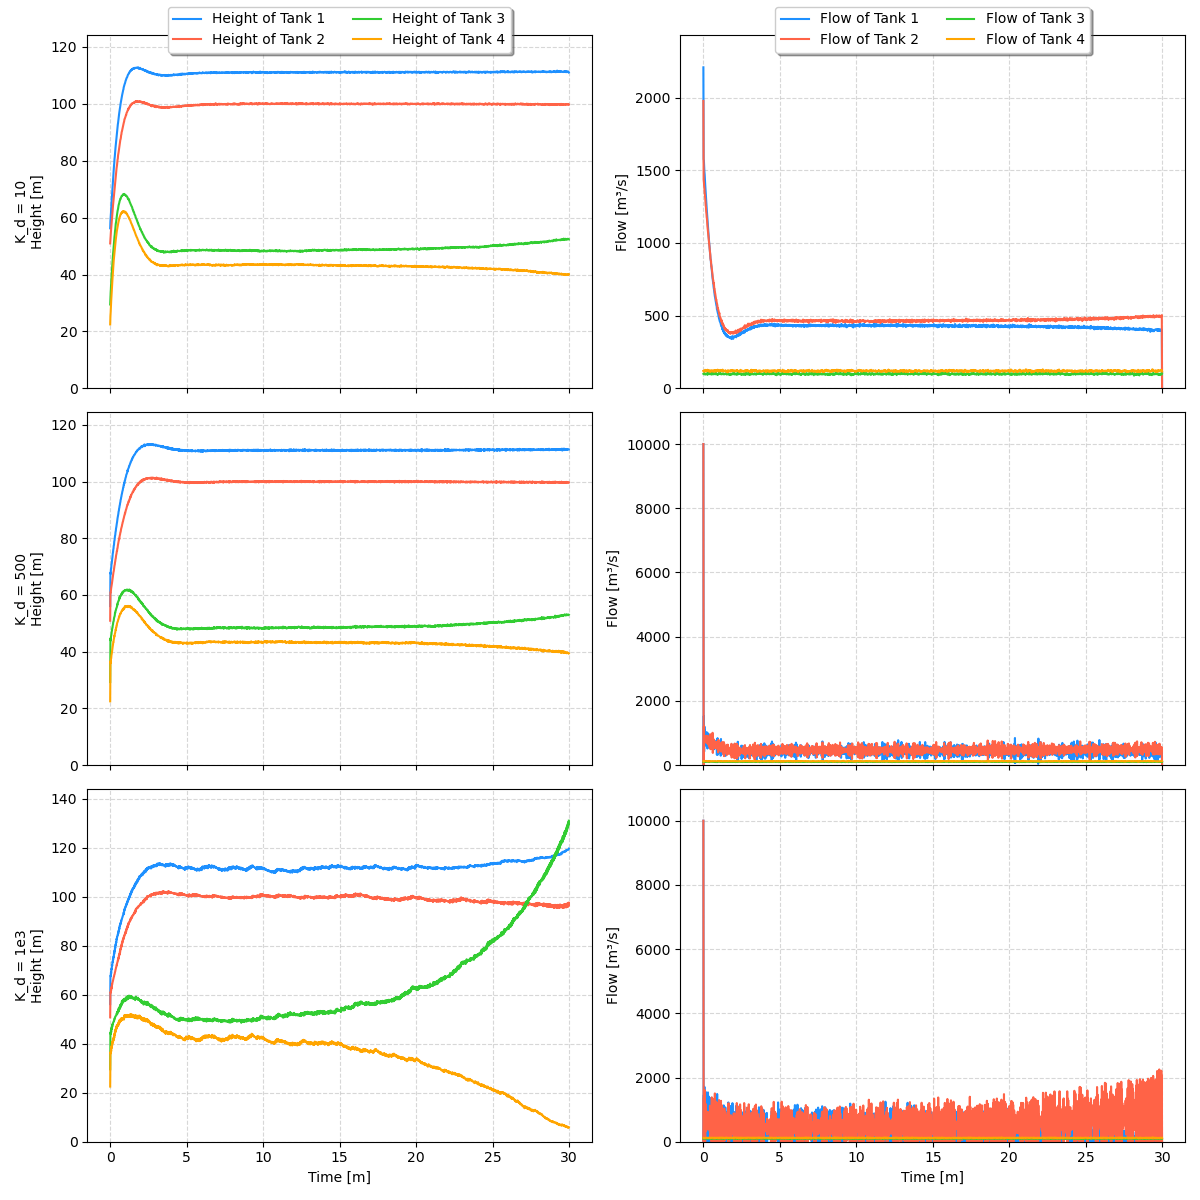
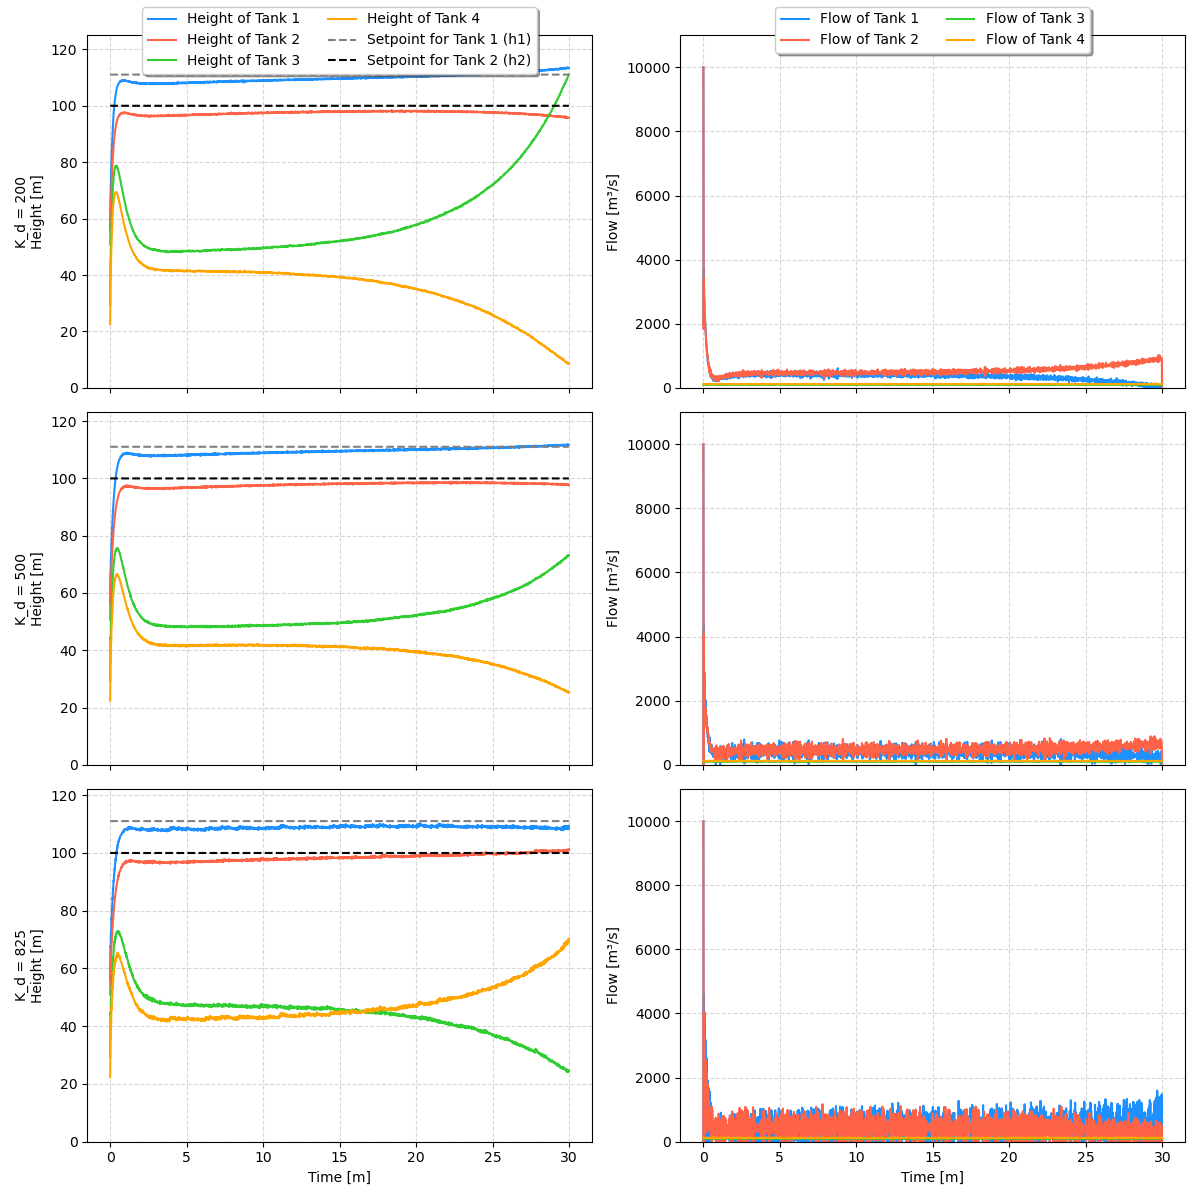
P3 updated

diff --git a/Problem_3.py b/Problem_3.py
@@ -11,10 +11,10 @@ ls = ['-', '-', '-']
 
 t0 = 0
 tf = 20*90
-m10 = 0
-m20 = 0
-m30 = 0
-m40 = 0
+m10 = 10
+m20 = 10
+m30 = 10
+m40 = 10
 F1 = 250
 F2 = 325
 F3 = 100
@@ -35,7 +35,7 @@ Rvv = np.eye(4)*0.01
 umin = 1
 umax = 10000
 
-Model = FourTankSystem(Rvv, Rvv, p, delta_t, F3 = F3, F4 = F4)
+Model = FourTankSystem(Rvv, Rvv, p, delta_t, F3 = lambda t: t*0 + F3, F4 = lambda t: t*0 + F4)
 
 xs = Model.GetSteadyState(x0, u, d)
 print("Steady state (m):", xs)
@@ -66,12 +66,12 @@ if sys.argv[1] == 'test':
     plt.show()
     sys.exit()
 
-setpoint = goal
+setpoint = good_goal
 
-Kp = 30
+Kp = 100
 
 if sys.argv[1] == 'p':
-    controller_p = pid.PIDController(5, 0, 0, setpoint, delta_t, umin, umax)
+    controller_p = pid.PIDController(10, 0, 0, setpoint, delta_t, umin, umax)
 
     t, x, u, d, h = Model.ClosedLoop((t0, tf), state_0, controller_p)
 
@@ -86,9 +86,9 @@ if sys.argv[1] == 'p':
         else:
             axes[0, 1].plot(t/60, d[i-2, :], label=f'Flow of Tank {i+1}', color=colors[i], ls=ls[0])
 
-    axes[0, 0].set_ylim(0, np.max(h)*1.1)
+    axes[0, 0].set_ylim(0, max(np.max(h), np.max(setpoint))*1.1)
     axes[0, 1].set_ylim(0, np.max(u)*1.1)
-    axes[0, 0].set_ylabel('K_p = 5\nHeight [m]')
+    axes[0, 0].set_ylabel('K_p = 10\nHeight [m]')
     axes[0, 1].set_ylabel('Flow [m³/s]')
     axes[0, 0].grid(True, linestyle='--', alpha=0.5)
     axes[0, 1].grid(True, linestyle='--', alpha=0.5)
@@ -105,14 +105,14 @@ if sys.argv[1] == 'p':
         else:
             axes[1, 1].plot(t/60, d[i-2, :], label=f'Flow of Tank {i+1}', color=colors[i], ls=ls[1])
 
-    axes[1, 0].set_ylim(0, np.max(h)*1.1)
+    axes[1, 0].set_ylim(0, max(np.max(h), np.max(setpoint))*1.1)
     axes[1, 1].set_ylim(0, np.max(u)*1.1)
     axes[1, 0].set_ylabel(f'K_p = {Kp}\nHeight [m]')
     axes[1, 1].set_ylabel('Flow [m³/s]')
     axes[1, 0].grid(True, linestyle='--', alpha=0.5)
     axes[1, 1].grid(True, linestyle='--', alpha=0.5)
 
-    controller_p = pid.PIDController(100, 0, 0, setpoint, delta_t, umin, umax)
+    controller_p = pid.PIDController(500, 0, 0, setpoint, delta_t, umin, umax)
 
     t, x, u, d, h = Model.ClosedLoop((t0, tf), state_0, controller_p)
 
@@ -123,7 +123,7 @@ if sys.argv[1] == 'p':
         else:
             axes[2, 1].plot(t/60, d[i-2, :], label=f'Flow of Tank {i+1}', color=colors[i], ls=ls[2])
 
-    axes[2, 0].set_ylim(0, np.max(h)*1.1)
+    axes[2, 0].set_ylim(0, max(np.max(h), np.max(setpoint))*1.1)
     axes[2, 1].set_ylim(0, np.max(u)*1.1)
     axes[2, 0].set_ylabel('K_p = 500\nHeight [m]')
     axes[2, 1].set_ylabel('Flow [m³/s]')
@@ -132,6 +132,10 @@ if sys.argv[1] == 'p':
     axes[2, 0].grid(True, linestyle='--', alpha=0.5)
     axes[2, 1].grid(True, linestyle='--', alpha=0.5)
 
+    for i in range(3):
+        axes[i, 0].plot(t/60, t*0 + setpoint[0], label=f'Setpoint for Tank 1 (h1)', color="gray", ls="--")
+        axes[i, 0].plot(t/60, t*0 + setpoint[1], label=f'Setpoint for Tank 2 (h2)', color="black", ls="--")
+
     axes[0, 0].legend(loc='upper center', bbox_to_anchor=(0.5, 1.10),
             ncol=2, fancybox=True, shadow=True)
     axes[0, 1].legend(loc='upper center', bbox_to_anchor=(0.5, 1.10),
@@ -139,11 +143,11 @@ if sys.argv[1] == 'p':
 
     plt.tight_layout()
     plt.savefig('figures/Problem3/Problem_3_Kp.png')
-    # plt.show()
+    plt.show()
 
-Ki = 0.3
+Ki = 0.1
 if sys.argv[1] == 'pi':
-    controller_pi = pid.PIDController(Kp, 0.1, 0, setpoint, delta_t, umin, umax)
+    controller_pi = pid.PIDController(Kp, 0.01, 0, setpoint, delta_t, umin, umax)
 
     t, x, u, d, h = Model.ClosedLoop((t0, tf), state_0, controller_pi)
 
@@ -157,10 +161,10 @@ if sys.argv[1] == 'pi':
             axes[0, 1].plot(t/60, u[i, :], label=f'Flow of Tank {i+1}', color=colors[i], ls=ls[0])
         else:
             axes[0, 1].plot(t/60, d[i-2, :], label=f'Flow of Tank {i+1}', color=colors[i], ls=ls[0])
-
-    axes[0, 0].set_ylim(0, np.max(h)*1.1)
+    
+    axes[1, 0].set_ylim(0, max(np.max(h), np.max(setpoint))*1.1)
     axes[0, 1].set_ylim(0, np.max(u)*1.1)
-    axes[0, 0].set_ylabel('K_i = 0.1\nHeight [m]')
+    axes[0, 0].set_ylabel('K_i = 0.01\nHeight [m]')
     axes[0, 1].set_ylabel('Flow [m³/s]')
     axes[0, 0].grid(True, linestyle='--', alpha=0.5)
     axes[0, 1].grid(True, linestyle='--', alpha=0.5)
@@ -177,7 +181,7 @@ if sys.argv[1] == 'pi':
         else:
             axes[1, 1].plot(t/60, d[i-2, :], label=f'Flow of Tank {i+1}', color=colors[i], ls=ls[1])
 
-    axes[1, 0].set_ylim(0, np.max(h)*1.1)
+    axes[1, 0].set_ylim(0, max(np.max(h), np.max(setpoint))*1.1)
     axes[1, 1].set_ylim(0, np.max(u)*1.1)
     axes[1, 0].set_ylabel(f'K_i = {Ki}\nHeight [m]')
     axes[1, 1].set_ylabel('Flow [m³/s]')
@@ -195,7 +199,7 @@ if sys.argv[1] == 'pi':
         else:
             axes[2, 1].plot(t/60, d[i-2, :], label=f'Flow of Tank {i+1}', color=colors[i], ls=ls[2])
 
-    axes[2, 0].set_ylim(0, np.max(h)*1.1)
+    axes[2, 0].set_ylim(0, max(np.max(h), np.max(setpoint))*1.1)
     axes[2, 1].set_ylim(0, np.max(u)*1.1)
     axes[2, 0].set_ylabel('K_i = 5\nHeight [m]')
     axes[2, 1].set_ylabel('Flow [m³/s]')
@@ -204,6 +208,10 @@ if sys.argv[1] == 'pi':
     axes[2, 0].grid(True, linestyle='--', alpha=0.5)
     axes[2, 1].grid(True, linestyle='--', alpha=0.5)
 
+    for i in range(3):
+        axes[i, 0].plot(t/60, t*0 + setpoint[0], label=f'Setpoint for Tank 1 (h1)', color="gray", ls="--")
+        axes[i, 0].plot(t/60, t*0 + setpoint[1], label=f'Setpoint for Tank 2 (h2)', color="black", ls="--")
+
     axes[0, 0].legend(loc='upper center', bbox_to_anchor=(0.5, 1.10),
             ncol=2, fancybox=True, shadow=True)
     axes[0, 1].legend(loc='upper center', bbox_to_anchor=(0.5, 1.10),
@@ -211,11 +219,11 @@ if sys.argv[1] == 'pi':
 
     plt.tight_layout()
     plt.savefig('figures/Problem3/Problem_3_Ki.png')
-    # plt.show()
+    plt.show()
 
 Kd = 500
 if sys.argv[1] == 'pid':
-    controller_pid = pid.PIDController(Kp, Ki, 10, setpoint, delta_t, umin, umax)
+    controller_pid = pid.PIDController(Kp, Ki, 200, setpoint, delta_t, umin, umax)
 
     t, x, u, d, h = Model.ClosedLoop((t0, tf), state_0, controller_pid)
 
@@ -230,9 +238,9 @@ if sys.argv[1] == 'pid':
         else:
             axes[0, 1].plot(t/60, d[i-2, :], label=f'Flow of Tank {i+1}', color=colors[i], ls=ls[0])
 
-    axes[0, 0].set_ylim(0, np.max(h)*1.1)
+    axes[0, 0].set_ylim(0, max(np.max(h), np.max(setpoint))*1.1)
     axes[0, 1].set_ylim(0, np.max(u)*1.1)
-    axes[0, 0].set_ylabel('K_d = 10\nHeight [m]')
+    axes[0, 0].set_ylabel('K_d = 200\nHeight [m]')
     axes[0, 1].set_ylabel('Flow [m³/s]')
     axes[0, 0].grid(True, linestyle='--', alpha=0.5)
     axes[0, 1].grid(True, linestyle='--', alpha=0.5)
@@ -249,14 +257,14 @@ if sys.argv[1] == 'pid':
         else:
             axes[1, 1].plot(t/60, d[i-2, :], label=f'Flow of Tank {i+1}', color=colors[i], ls=ls[1])
 
-    axes[1, 0].set_ylim(0, np.max(h)*1.1)
+    axes[1, 0].set_ylim(0, max(np.max(h), np.max(setpoint))*1.1)
     axes[1, 1].set_ylim(0, np.max(u)*1.1)
     axes[1, 0].set_ylabel(f'K_d = {Kd}\nHeight [m]')
     axes[1, 1].set_ylabel('Flow [m³/s]')
     axes[1, 0].grid(True, linestyle='--', alpha=0.5)
     axes[1, 1].grid(True, linestyle='--', alpha=0.5)
 
-    controller_pid = pid.PIDController(Kp, Ki, 1e3, setpoint, delta_t, umin, umax)
+    controller_pid = pid.PIDController(Kp, Ki, 825, setpoint, delta_t, umin, umax)
 
     t, x, u, d, h = Model.ClosedLoop((t0, tf), state_0, controller_pid)
 
@@ -267,14 +275,18 @@ if sys.argv[1] == 'pid':
         else:
             axes[2, 1].plot(t/60, d[i-2, :], label=f'Flow of Tank {i+1}', color=colors[i], ls=ls[2])
 
-    axes[2, 0].set_ylim(0, np.max(h)*1.1)
+    axes[2, 0].set_ylim(0, max(np.max(h), np.max(setpoint))*1.1)
     axes[2, 1].set_ylim(0, np.max(u)*1.1)
-    axes[2, 0].set_ylabel('K_d = 1e3\nHeight [m]')
+    axes[2, 0].set_ylabel('K_d = 825\nHeight [m]')
     axes[2, 1].set_ylabel('Flow [m³/s]')
     axes[2, 0].set_xlabel('Time [m]')
     axes[2, 1].set_xlabel('Time [m]')
     axes[2, 0].grid(True, linestyle='--', alpha=0.5)
     axes[2, 1].grid(True, linestyle='--', alpha=0.5)
+
+    for i in range(3):
+        axes[i, 0].plot(t/60, t*0 + setpoint[0], label=f'Setpoint for Tank 1 (h1)', color="gray", ls="--")
+        axes[i, 0].plot(t/60, t*0 + setpoint[1], label=f'Setpoint for Tank 2 (h2)', color="black", ls="--")
 
     axes[0, 0].legend(loc='upper center', bbox_to_anchor=(0.5, 1.10),
             ncol=2, fancybox=True, shadow=True)
@@ -283,7 +295,7 @@ if sys.argv[1] == 'pid':
 
     plt.tight_layout()
     plt.savefig('figures/Problem3/Problem_3_Kd.png')
-    # plt.show()
+    plt.show()
 
 if sys.argv[1] == 'sim':
     colors = ['dodgerblue', 'tomato', 'limegreen', 'orange']
@@ -293,7 +305,7 @@ if sys.argv[1] == 'sim':
     import params.pid_params as pid_params
 
     controller_pid = pid.PIDController(pid_params.Kp, pid_params.Ki, pid_params.Kd, good_goal, delta_t, umin, umax)
-    Model = FourTankSystem(Rvv, Rvv, p, delta_t, F3 = F3, F4 = F4)
+    Model = FourTankSystem(Rvv, Rvv, p, delta_t, F3 = lambda t: t*0 + F3, F4 = lambda t: t*0 + F4)
     t, x, u, d, h = Model.ClosedLoop((t0, tf), state_0, controller_pid)
 
 
@@ -305,5 +317,9 @@ if sys.argv[1] == 'sim':
             axes[1].step(t/60, u[i, :], label=f'Flow of Tank {i+1}', color=colors[i], ls=ls[0])
         else:
             axes[1].step(t/60, d[i-2, :], label=f'Flow of Tank {i+1}', color=colors[i], ls=ls[0])
+
+    axes[0].plot(t/60, t*0 + setpoint[0], label=f'Setpoint for Tank 1 (h1)', color="gray", ls="--")
+    axes[0].plot(t/60, t*0 + setpoint[1], label=f'Setpoint for Tank 2 (h2)', color="black", ls="--")
+
     plt.savefig('figures/Problem3/Problem_3_sim.png')
     plt.show()
